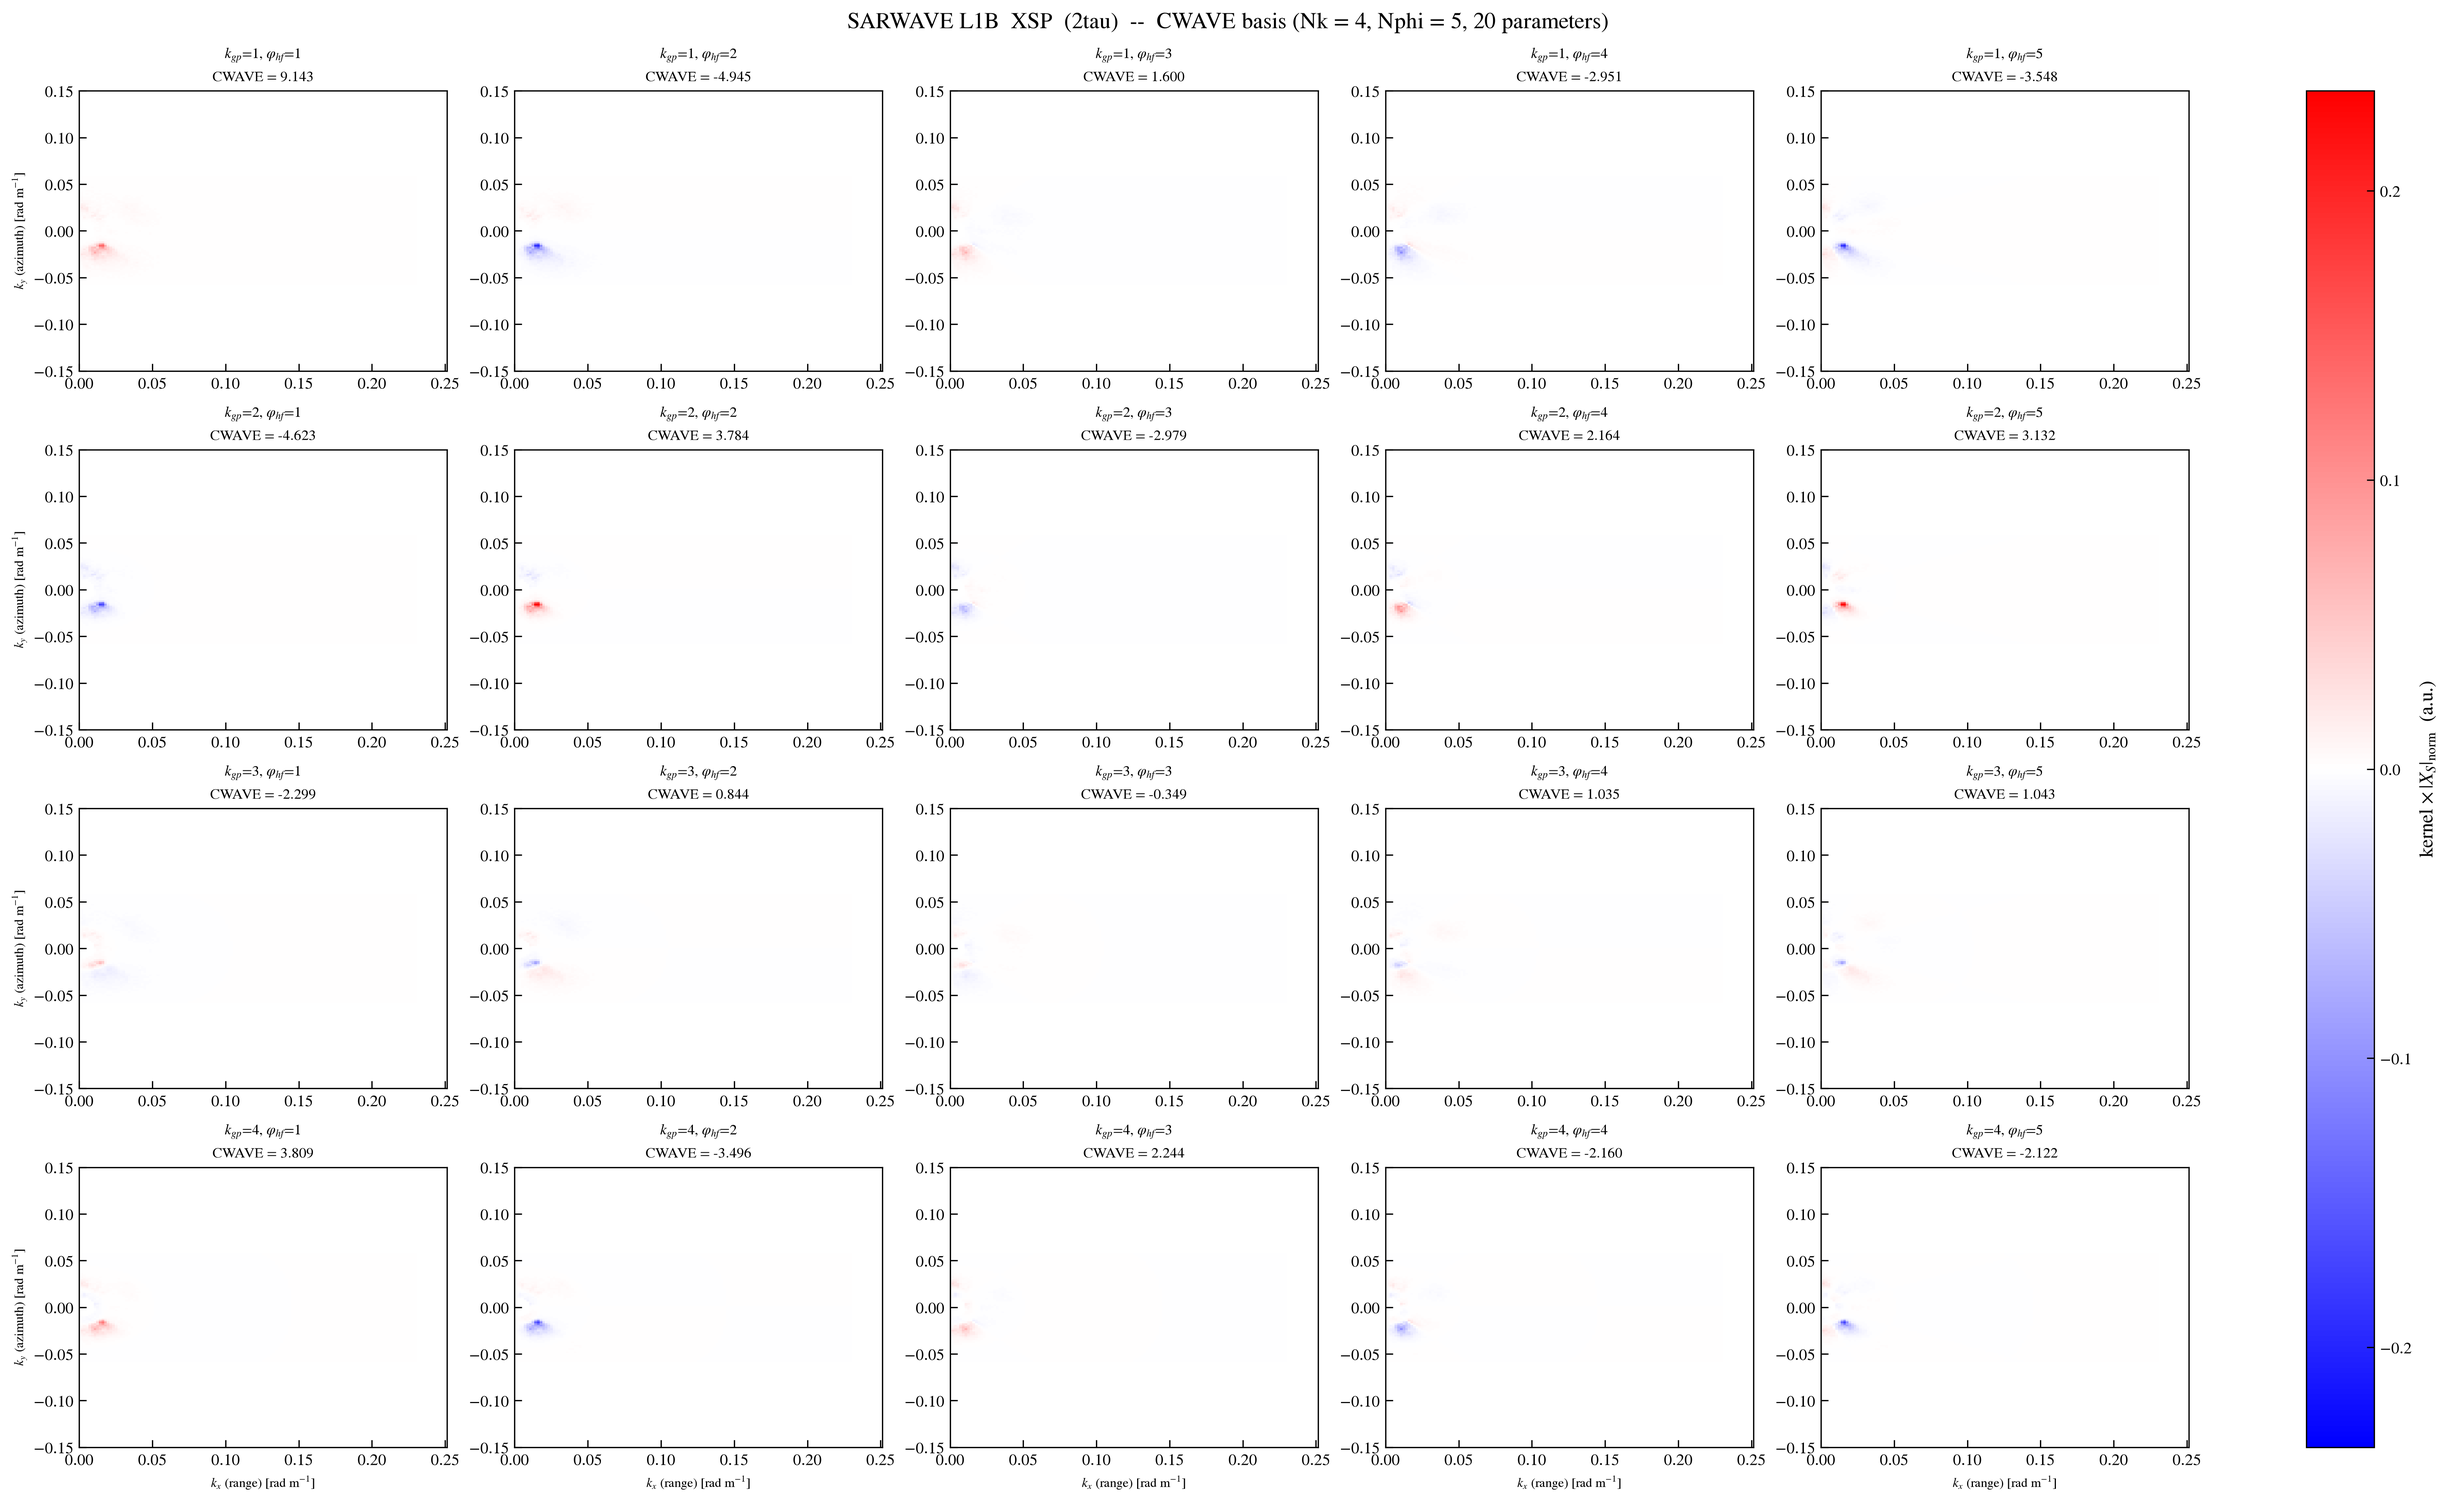
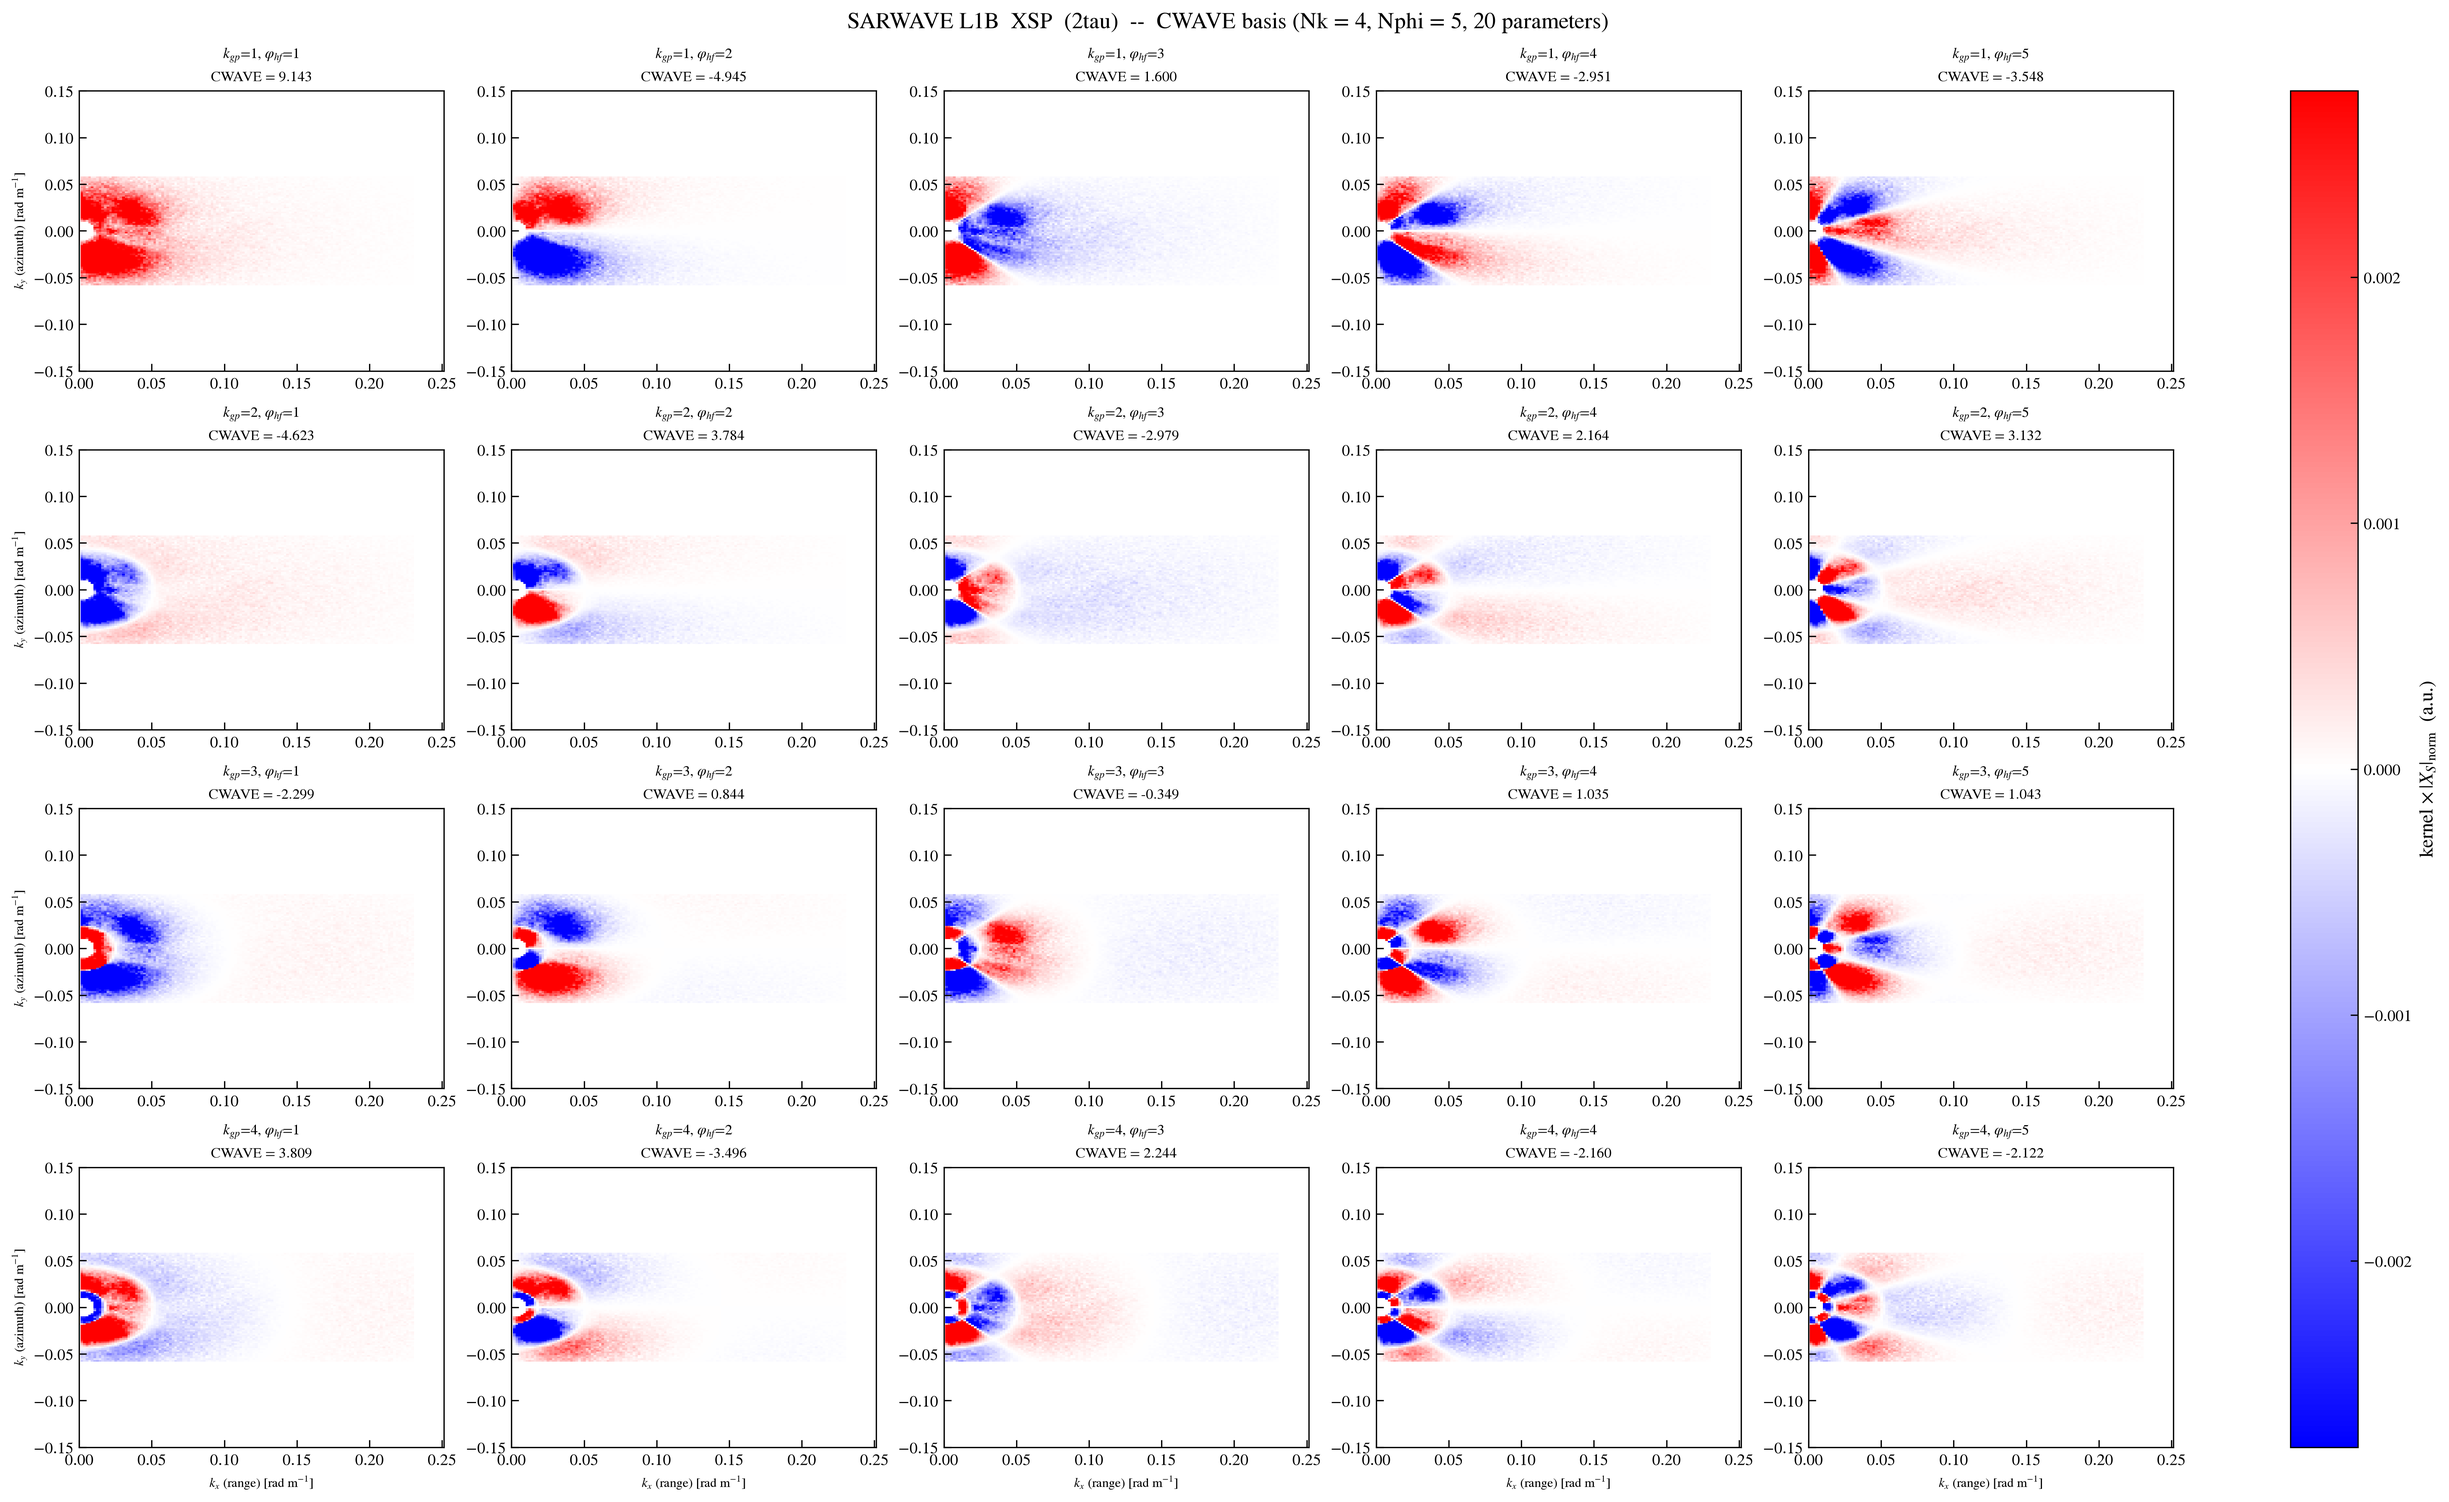
docs: add Lean proof page, drop internal task refs, 90% CI colorbar
- new docs/proofs.rst page explaining the formal Lean verification of the
  angular orthonormality (statement, scope, 3-layer proof structure, how to
  reproduce); theory.rst now links to it instead of 'in progress'
- remove all internal task-number mentions from the Sphinx docs and the
  docstrings rendered in the API reference (task numbers are internal)
- certification_all_* figures: colorbar bounds now the 90% central interval
  (5th-95th percentile) of |integrand| instead of the absolute max, so
  isolated kernel peaks no longer wash the panels out (saturation x3)
- lean: clear all 10 linter warnings (proper copyright headers, MIT license
  option, deprecated import, unused simp args / Even hypotheses, long line)
  -> lake build 0 errors, 0 warnings
- fix pre-existing ruff UP031 (%-format -> f-string) in cwave_listing_compare

diff --git a/docs/generate_figures.py b/docs/generate_figures.py
@@ -20,7 +20,7 @@ This produces, in ``docs/figures/`` :
 * the SAR ``sigma0`` roughness image (``...-roughness.png``) is provided
   separately (not generated here) and is documented on the certification page.
 * ``cwave_map_k1_phi1.png``          -- the georeferenced CWAVE map (k_gp=1,
-  phi_hf=1) produced by the task-10 script :mod:`cwaves.scripts.iw_cwaves_map`.
+  phi_hf=1) produced by the script :mod:`cwaves.scripts.iw_cwaves_map`.
 
 The figures only need the core dependencies (numpy, xarray, scipy, matplotlib);
 the map figure additionally needs ``cartopy`` (the ``scripts`` extra).
@@ -426,8 +426,12 @@ def _gen_certification_all() -> None:
             n_k, n_phi, figsize=(4.2 * n_phi, 3.2 * n_k), constrained_layout=True
         )
         axes = np.atleast_2d(axes)
-        # one shared, symmetric color scale across all panels of this method
-        vmax = max(float(np.nanmax(np.abs(p))) for p, _ in panels)
+        # one shared, symmetric color scale across all panels of this method,
+        # bounded by the 90 % central interval (5th-95th percentile) of the
+        # absolute integrand so that isolated kernel peaks do not wash out
+        # the bulk of the data
+        all_abs = np.concatenate([np.abs(p).ravel() for p, _ in panels])
+        vmax = float(np.nanpercentile(all_abs, 95))
         for i, ax in enumerate(axes.ravel()):
             kg, ph = divmod(i, n_phi)
             integrand, val = panels[i]

diff --git a/cwaves/scripts/cwave_listing_compare.py b/cwaves/scripts/cwave_listing_compare.py
@@ -183,8 +183,8 @@ def _plot_scatter(
     ax.plot(one_to_one, one_to_one, "k--", linewidth=1.0, label="1:1")
     ax.set_xlim(lo, hi)
     ax.set_ylim(lo, hi)
-    ax.set_xlabel(r"CWAVE $k_{gp}=%d,\ \varphi_{hf}=%d$  (xsar_slc)" % (k_gp, phi_hf))
-    ax.set_ylabel(r"CWAVE $k_{gp}=%d,\ \varphi_{hf}=%d$  (cwaves lib)" % (k_gp, phi_hf))
+    ax.set_xlabel(rf"CWAVE $k_{{gp}}={k_gp},\ \varphi_{{hf}}={phi_hf}$  (xsar_slc)")
+    ax.set_ylabel(rf"CWAVE $k_{{gp}}={k_gp},\ \varphi_{{hf}}={phi_hf}$  (cwaves lib)")
     fig.colorbar(plt.cm.ScalarMappable(cmap="viridis"), ax=ax, label="cwaves lib value")
     ax.set_title(
         f"xsar_slc vs cwaves lib  (k_gp={k_gp}, phi_hf={phi_hf})\n"

diff --git a/cwaves/client.py b/cwaves/client.py
@@ -1,6 +1,6 @@
 """CLI client to compute CWAVE parameters from Sentinel-1 SARWave products.
 
-Two input product types are supported (roadmap task 9). Both feed a
+Two input product types are supported. Both feed a
 **one-sided (half)** cross-spectrum (positive range ``k_rg >= 0``, two-sided
 azimuth ``k_az``) to :func:`cwaves.compute_cwave_parameters`, which computes the
 CWAVE parameters directly on that one-sided range domain using only the real

diff --git a/cwaves/scripts/iw_cwaves_map.py b/cwaves/scripts/iw_cwaves_map.py
@@ -1,6 +1,6 @@
 """Compute CWAVE parameters on the IW subswaths of an L2 OCN product.
 
-This script (roadmap task 10) computes the CWAVE parameters, tile by tile, on the
+This script computes the CWAVE parameters, tile by tile, on the
 cross-spectra of the IW subswaths (``iw1``/``iw2``/``iw3``) of a Sentinel-1 IW
 ocean wave product and renders a single georeferenced map with the three
 subswaths collocated in geographic space.

diff --git a/cwaves/scripts/plot_kernels.py b/cwaves/scripts/plot_kernels.py
@@ -1,6 +1,6 @@
 """Plot the CWAVE kernels in the (kx, ky) wavenumber domain.
 
-This script (roadmap task 12) renders the orthonormal CWAVE kernel basis of
+This script renders the orthonormal CWAVE kernel basis of
 Schulz-Stellenfleth et al. (2007) as 2D fields over the elliptic wavenumber
 domain ``A`` (paper equations B1-B13), in the style of the right-hand subplot
 of Fig. 2 of Quach et al. (2020).

diff --git a/cwaves/scripts/__init__.py b/cwaves/scripts/__init__.py
@@ -1,1 +1,1 @@
-"""Command-line scripts for the cwaves library (roadmap tasks 10-12)."""
+"""Command-line scripts for the cwaves library."""

diff --git a/docs/proofs.rst b/docs/proofs.rst
@@ -1,0 +1,94 @@
+.. _proofs:
+
+Formal verification (Lean)
+==========================
+
+The angular part of the CWAVE kernel basis is **formally verified in the Lean
+4 theorem prover** (Mathlib). The source lives in the :file:`lean/` directory
+of the repository; the build is reproducible with ``lake build`` (Lean
+toolchain ``v4.35.0``, Mathlib ``v4.35.0``) and currently compiles with
+**0 errors, 0 warnings, no ``sorry`` and no axioms**.
+
+What is proven
+--------------
+
+The angular harmonics :math:`F_m` — the angle-direction factor of every CWAVE
+kernel, defined in ``CWave.Definitions`` exactly as the Python
+:func:`cwaves.harmonic_functions` — form an **orthonormal basis** of
+:math:`L^2([-\pi/2, \pi/2])` :
+
+.. math::
+
+   \int_{-\pi/2}^{\pi/2} F_m(t)\, F_n(t)\, \mathrm{d}t = 1_{m = n}
+   \qquad (m, n \ge 1)
+
+This is the statement ``CWave.angular_orthonormal`` in
+``CWave.Harmonics``.
+
+Scope
+-----
+
+The verification covers the **angular (harmonic) factor only**. The radial
+factor — the orthonormal Gegenbauer polynomials :math:`C_n^{(3/2)}` and the
+Jacobian :math:`\eta` over the elliptic domain :math:`A` (paper equations
+B1-B13) — is **not** part of the formal statement; the full 2D orthonormality
+of the kernel basis on :math:`A` is therefore not yet machine-checked.
+
+Structure of the proof
+----------------------
+
+The proof is a machine-checked reduction of the orthonormality to elementary
+trigonometric integrals, in three layers :
+
+1. **Frequency analysis.** Each harmonic :math:`F_m` carries a single
+   frequency :math:`\nu(m)`, defined in ``CWave.Harmonics`` as ``freq`` :
+
+   * :math:`\nu(1) = 0` (:math:`F_1 = 1/\sqrt{\pi}`),
+   * :math:`\nu(m) = m` for even :math:`m \ge 2` (:math:`F_m =
+     \sqrt{2/\pi}\,\sin(m t)`),
+   * :math:`\nu(m) = m - 1` for odd :math:`m \ge 3` (:math:`F_m =
+     \sqrt{2/\pi}\,\cos((m-1) t)`).
+
+   All these frequencies are **even non-negative integers**, which is the
+   key structural fact: they are mutually orthogonal on the symmetric interval
+   :math:`[-\pi/2, \pi/2]`.
+
+2. **Elementary integrals** on :math:`[-\pi/2, \pi/2]` :
+
+   * :math:`\int 1 = \pi`,
+   * :math:`\int \sin(k t)\,\mathrm{d}t = 0` for any non-zero integer
+     :math:`k` (oddness of the integrand, via the substitution
+     :math:`x = k t`),
+   * :math:`\int \cos(k t)\,\mathrm{d}t = 0` for any non-zero **even**
+     integer :math:`k` (because :math:`\sin(k\pi/2) = 0` for even
+     :math:`k`).
+
+3. **Product-to-sum lemmas.** The products of two harmonics are reduced with
+   the identities :math:`2\cos a\cos b = \cos(a-b) + \cos(a+b)`,
+   :math:`2\sin a\sin b = \cos(a-b) - \cos(a+b)` and
+   :math:`2\sin a\cos b = \sin(a-b) + \sin(a+b)`, giving closed forms for
+   :math:`\int \cos(a t)\cos(b t)`, :math:`\int \sin(a t)\sin(b t)` and
+   :math:`\int \sin(a t)\cos(b t)` over the interval for even natural
+   :math:`a, b` (diagonal :math:`\pi/2`, off-diagonal :math:`0`).
+
+The main theorem ``angular_orthonormal`` then combines these lemmas over the
+**eight parity cases** of :math:`(m, n)` (:math:`m = 1` / even / odd crossed
+with :math:`n = 1` / even / odd, with the :math:`m = n` vs :math:`m \neq n`
+sub-cases), using the normalization :math:`\sqrt{2/\pi} \cdot \sqrt{2/\pi} =
+2/\pi` to turn each diagonal :math:`\pi/2` into :math:`1`.
+
+Reproducing the verification
+----------------------------
+
+.. code-block:: bash
+
+   cd lean
+   lake build
+
+The build is incremental (the Mathlib precompile cache is stored in
+:file:`.lake/`, which is gitignored). The two source files are :
+
+* :file:`lean/CWave/Definitions.lean` — the kernel factors (Gegenbauer,
+  :math:`G`, :math:`F_m`, :math:`\eta`) mirroring the Python implementation;
+* :file:`lean/CWave/Harmonics.lean` — the lemmas and the
+  ``angular_orthonormal`` theorem above.

diff --git a/docs/certification.rst b/docs/certification.rst
@@ -4,8 +4,8 @@ Certification
 .. _certification:
 
 This page certifies that the CWAVE kernels are consistent with the structure of
-real SAR ocean cross-spectra, and shows a full georeferenced CWAVE map produced
-by the task-10 script.
+real SAR ocean cross-spectra, and shows full georeferenced CWAVE maps produced
+by the :mod:`cwaves.scripts.iw_cwaves_map` script.
 
 From surface roughness to CWAVE on real data
 --------------------------------------------
@@ -82,7 +82,10 @@ for each decode method, on the same S1A WV1 acquisition as above. Each panel is
 the pointwise integrand :math:`\text{kernel}_{(k_{gp},\,\varphi_{hf})} \times
 |X_S|_{\rm norm}` for one parameter, with the resulting CWAVE value in the
 title; the colour scale is shared (and symmetric) across all panels of a method,
-so the 20-parameter output of the three decode methods is directly comparable.
+with its bounds set to the 90 % central interval (5th-95th percentile) of the
+absolute integrand so that isolated kernel peaks do not wash out the bulk of
+the data. This makes the 20-parameter output of the three decode methods
+directly comparable.
 
 * **OCN WV, polar → cartesian** :
 

diff --git a/docs/theory.rst b/docs/theory.rst
@@ -37,8 +37,9 @@ where :math:`A` is the elliptic wavenumber domain (paper equations B1-B13) and
 :math:`|X_S|` is the real, non-negative modulus of the cross-spectrum.
 
 The orthonormality of the kernel basis on :math:`A` is the property that makes
-the decomposition well-posed. A formal (Lean) verification of this
-orthonormality is in progress (roadmap task 11, see the ``lean/`` directory).
+the decomposition well-posed. The angular part of it (the harmonics
+:math:`F_m` on :math:`[-\pi/2, \pi/2]`) is formally verified in Lean 4 — see
+:ref:`proofs`.
 
 The kernel basis
 ----------------

diff --git a/docs/index.rst b/docs/index.rst
@@ -29,6 +29,7 @@ Contents
    :caption: Contents
 
    theory
+   proofs
    installation
    usage
    certification
